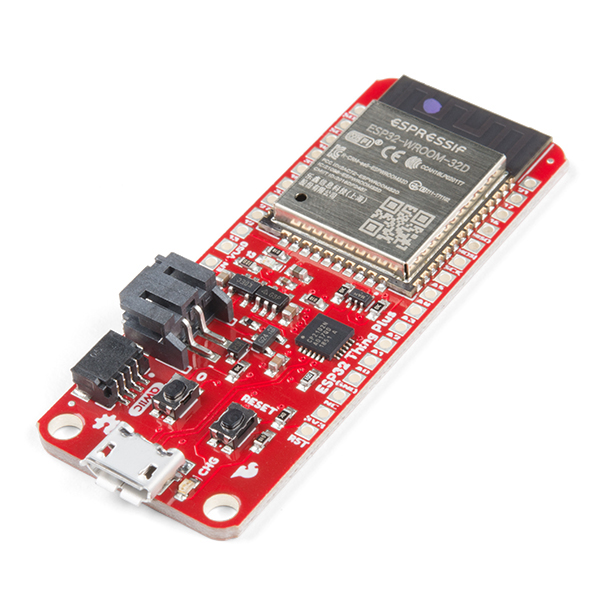
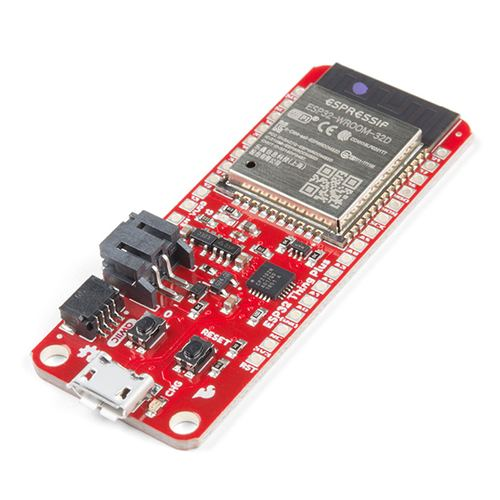
Optimize images and update documentation for improved presentation
- Resized and compressed multiple images across the repository, significantly reducing overall file size from ~2.1 MB to ~460 KB.
- Updated image embedding in `README.md`, `BOM.md`, and `wiring/README.md` to use HTML `<img>` tags for better control over rendering dimensions.
- Enhanced visual consistency by ensuring all component images are displayed as uniform thumbnails.
- Adjusted wiring diagrams to maintain clarity and improve load times.

These changes enhance the user experience by improving the visual presentation and performance of the documentation.

diff --git a/BuildYourOwn/BOM.md b/BuildYourOwn/BOM.md
@@ -7,12 +7,12 @@ Parts list for the **2 pumps + 1 valve** BYO bench rig. Wiring:
 
 | Photo | Part | Qty | Source/link | Datasheet | Notes |
 |---|---|---|---|---|---|
-| ![ESP32 Thing Plus](images/components/esp32-thing-plus.jpg) | SparkFun ESP32 Thing Plus (micro-USB, WRL-15663) | 1 | https://www.sparkfun.com/sparkfun-esp32-thing-plus.html | [`references/datasheets/ESP32_Thing_Plus_Schematic.pdf`](references/datasheets/ESP32_Thing_Plus_Schematic.pdf), [`ESP32_Thing_Plus_Graphical_Datasheet.pdf`](references/datasheets/ESP32_Thing_Plus_Graphical_Datasheet.pdf) | MCU; plain ESP32-WROOM-32D/E (not S2/S3); powers + programs over micro-USB; Qwiic port for sensor chain |
-| ![Qwiic MicroPressure](images/components/qwiic-micropressure.jpg) | SparkFun Qwiic MicroPressure (MPRLS) | 1 | https://www.sparkfun.com/sparkfun-qwiic-micropressure-sensor.html | [`references/datasheets/Honeywell_MPR_Series_Datasheet.pdf`](references/datasheets/Honeywell_MPR_Series_Datasheet.pdf) | Honeywell MPR series; I2C `0x18`; first Qwiic device in the chain |
-| ![Qwiic Button](images/components/qwiic-button.jpg) | SparkFun Qwiic Button, red (BOB-15932) | 1 | https://www.sparkfun.com/sparkfun-qwiic-button.html | [`references/datasheets/Qwiic_Button_Schematic.pdf`](references/datasheets/Qwiic_Button_Schematic.pdf) | I2C, default address `0x6F`; 1-click=REP, hold=momentary pressure; daisy-chained after the MicroPressure sensor on the same Qwiic bus |
-| ![L298N module](images/components/l298n-motor-driver.jpg) | L298N dual H-bridge module | 2 | https://www.amazon.com/s?k=L298N+motor+driver | https://www.st.com/resource/en/datasheet/l298.pdf | #1 = 2 pumps; #2 = valve; ENA/ENB jumpers **OFF** |
-| ![Adafruit 4700 air pump](images/components/adafruit-4700-air-pump.jpg) | Air pump / vacuum motor (Adafruit 4700, ZR320-02PM) | 2 | https://www.adafruit.com/product/4700 | [`references/datasheets/ZR320-02PM_4.5V.pdf`](references/datasheets/ZR320-02PM_4.5V.pdf) | ~4.5 V / ~600 mA each; PUMP1 = vacuum (retract), PUMP2 = pressure (extrude); **flow direction is fixed by port plumbing, not motor polarity** |
-| ![Adafruit 4663 air valve](images/components/adafruit-4663-air-valve.jpg) | 6 V air valve (Adafruit 4663, FA0520E) | 1 | https://www.adafruit.com/product/4663 | [`references/datasheets/4663_C14660_DC_6V.pdf`](references/datasheets/4663_C14660_DC_6V.pdf) | 3-port flip selector (VALVE2); metal pole = vacuum path, plastic pole = pressure path |
+| <img src="images/components/esp32-thing-plus.jpg" width="100" alt="ESP32 Thing Plus"> | SparkFun ESP32 Thing Plus (micro-USB, WRL-15663) | 1 | https://www.sparkfun.com/sparkfun-esp32-thing-plus.html | [`references/datasheets/ESP32_Thing_Plus_Schematic.pdf`](references/datasheets/ESP32_Thing_Plus_Schematic.pdf), [`ESP32_Thing_Plus_Graphical_Datasheet.pdf`](references/datasheets/ESP32_Thing_Plus_Graphical_Datasheet.pdf) | MCU; plain ESP32-WROOM-32D/E (not S2/S3); powers + programs over micro-USB; Qwiic port for sensor chain |
+| <img src="images/components/qwiic-micropressure.jpg" width="100" alt="Qwiic MicroPressure"> | SparkFun Qwiic MicroPressure (MPRLS) | 1 | https://www.sparkfun.com/sparkfun-qwiic-micropressure-sensor.html | [`references/datasheets/Honeywell_MPR_Series_Datasheet.pdf`](references/datasheets/Honeywell_MPR_Series_Datasheet.pdf) | Honeywell MPR series; I2C `0x18`; first Qwiic device in the chain |
+| <img src="images/components/qwiic-button.jpg" width="100" alt="Qwiic Button"> | SparkFun Qwiic Button, red (BOB-15932) | 1 | https://www.sparkfun.com/sparkfun-qwiic-button.html | [`references/datasheets/Qwiic_Button_Schematic.pdf`](references/datasheets/Qwiic_Button_Schematic.pdf) | I2C, default address `0x6F`; 1-click=REP, hold=momentary pressure; daisy-chained after the MicroPressure sensor on the same Qwiic bus |
+| <img src="images/components/l298n-motor-driver.jpg" width="100" alt="L298N module"> | L298N dual H-bridge module | 2 | https://www.amazon.com/s?k=L298N+motor+driver | https://www.st.com/resource/en/datasheet/l298.pdf | #1 = 2 pumps; #2 = valve; ENA/ENB jumpers **OFF** |
+| <img src="images/components/adafruit-4700-air-pump.jpg" width="100" alt="Adafruit 4700 air pump"> | Air pump / vacuum motor (Adafruit 4700, ZR320-02PM) | 2 | https://www.adafruit.com/product/4700 | [`references/datasheets/ZR320-02PM_4.5V.pdf`](references/datasheets/ZR320-02PM_4.5V.pdf) | ~4.5 V / ~600 mA each; PUMP1 = vacuum (retract), PUMP2 = pressure (extrude); **flow direction is fixed by port plumbing, not motor polarity** |
+| <img src="images/components/adafruit-4663-air-valve.jpg" width="100" alt="Adafruit 4663 air valve"> | 6 V air valve (Adafruit 4663, FA0520E) | 1 | https://www.adafruit.com/product/4663 | [`references/datasheets/4663_C14660_DC_6V.pdf`](references/datasheets/4663_C14660_DC_6V.pdf) | 3-port flip selector (VALVE2); metal pole = vacuum path, plastic pole = pressure path |
 | — | Resistor 10 kΩ | 4 | — | — | Pull-down on GPIO 14, 15, 32, 33 to GND |
 | — | DC power adapter 12 V | 1 | — | — | External supply for both L298N motor rails; ≥ 2 A recommended; share GND with ESP32 |
 | — | Silicone tubing 3 mm ID | 1 | https://www.adafruit.com/product/4664 | — | Pneumatic plumbing; see `wiring/pneumatic-plumbing.md` |

diff --git a/BuildYourOwn/PROGRESS.md b/BuildYourOwn/PROGRESS.md
@@ -8,6 +8,46 @@ Newest entries at the top. One entry per session/sitting.
 
 ---
 
+## 2026-07-08 (16)
+
+Resized/compressed every other image in the repo (user asked for "all other pictures as well"
+after the `teaser.jpg` pass) — total image payload dropped from ~2.1 MB to ~460 KB (excluding
+`teaser.jpg`, already handled previously).
+
+- **`wiring/2P1V-wiring-diagram.png`:** 3322×2618 / 644 KB → 1800×1418 / **92 KB**. Resized with
+  `sips`, then re-encoded as an indexed-palette PNG (`PIL.Image.quantize`, FASTOCTREE, 256 colors)
+  instead of plain resize alone — this is what a diagram made mostly of flat colors/text
+  compresses down so dramatically with zero visible quality loss (spot-checked at full size).
+- **`wiring/2P1V-tube-connection.png`:** was actually JPEG-encoded (mismatched extension, same
+  issue as the old `teaser.png`) at 1024×683 / 88 KB. Re-encoded as a true quantized PNG →
+  **42 KB**, removing the JPEG artifacts a line-art diagram shouldn't have. Extension left as
+  `.png` since this is genuinely PNG now (only `teaser` needed a rename, since that one's a
+  photo).
+- **`laser-cut/*.png`** (`panel-cut-lines`, `panel-system-diagram`, `panel-placement-map`): same
+  quantization treatment → 24 KB→4 KB, 98 KB→22 KB, 65 KB→36 KB respectively. These are only
+  linked (not embedded inline) in `laser-cut/README.md`, so this only helps click-through load
+  time, not page rendering.
+- **`images/components/*.jpg`** (6 product photos, real photography — quantization doesn't apply
+  to photos): resized to a 500 px long edge + re-compressed (JPEG quality 78) →
+  ~150–300 KB each down to **10–36 KB each**.
+- **Display-width fixes** (the underlying reason this mattered beyond just download size): the
+  component gallery in `README.md` and the photo column in `BOM.md` were plain Markdown `![]()`
+  images inside table cells — at native resolution (600–970 px per photo, wildly inconsistent
+  with the 248 px L298N photo) that would have rendered as an oversized, uneven-looking table.
+  Switched every one to an HTML `<img width="…">` tag (180 px in the `README.md` gallery, 100 px
+  in `BOM.md`'s narrower table) for small, uniform thumbnails. Did the same for the two wiring
+  diagrams in `README.md`/`wiring/README.md` (`width="800"`/`"600"`, wrapped in `<a href>` so the
+  full-resolution image is still one click away for anyone who needs to actually read the diagram
+  closely).
+- Ran `scripts/check-docs.sh` — all checks pass.
+
+**Next:** no other images remain unoptimized. If any new photos/diagrams get added later (the
+still-outstanding `platform.png`, `wiring.png`, `ide-settings.png`, or step media), apply the same
+treatment: quantized PNG for line-art/diagrams, resized+compressed JPEG for photos, explicit
+`<img width>` for anything embedded inside a table or used as a page hero.
+
+---
+
 ## 2026-07-08 (15)
 
 Resized/compressed `images/teaser.jpg` (formerly `teaser.png`) — user said the picture was

diff --git a/BuildYourOwn/README.md b/BuildYourOwn/README.md
@@ -54,9 +54,9 @@ This BYO track wires breakout boards instead of a custom PCB; optional custom PC
 
 **This design** — electrical wiring and pneumatic plumbing:
 
-![Electrical wiring diagram](wiring/2P1V-wiring-diagram.png)
+<a href="wiring/2P1V-wiring-diagram.png"><img src="wiring/2P1V-wiring-diagram.png" alt="Electrical wiring diagram" width="800"></a>
 
-![Pneumatic tube connection diagram](wiring/2P1V-tube-connection.png)
+<a href="wiring/2P1V-tube-connection.png"><img src="wiring/2P1V-tube-connection.png" alt="Pneumatic tube connection diagram" width="600"></a>
 
 Text summary of the pneumatic logic: [`wiring/pneumatic-plumbing.md`](wiring/pneumatic-plumbing.md).
 
@@ -64,8 +64,8 @@ Text summary of the pneumatic logic: [`wiring/pneumatic-plumbing.md`](wiring/pne
 
 | | | |
 |---|---|---|
-| ![SparkFun ESP32 Thing Plus](images/components/esp32-thing-plus.jpg)<br>SparkFun ESP32 Thing Plus (micro-USB) | ![SparkFun Qwiic MicroPressure](images/components/qwiic-micropressure.jpg)<br>Qwiic MicroPressure (MPRLS) | ![SparkFun Qwiic Button](images/components/qwiic-button.jpg)<br>Qwiic Button |
-| ![L298N motor driver module](images/components/l298n-motor-driver.jpg)<br>L298N dual H-bridge (×2) | ![Adafruit 4700 air pump](images/components/adafruit-4700-air-pump.jpg)<br>Adafruit 4700 air pump (×2) | ![Adafruit 4663 air valve](images/components/adafruit-4663-air-valve.jpg)<br>Adafruit 4663 air valve |
+| <img src="images/components/esp32-thing-plus.jpg" width="180" alt="SparkFun ESP32 Thing Plus"><br>SparkFun ESP32 Thing Plus (micro-USB) | <img src="images/components/qwiic-micropressure.jpg" width="180" alt="SparkFun Qwiic MicroPressure"><br>Qwiic MicroPressure (MPRLS) | <img src="images/components/qwiic-button.jpg" width="180" alt="SparkFun Qwiic Button"><br>Qwiic Button |
+| <img src="images/components/l298n-motor-driver.jpg" width="180" alt="L298N motor driver module"><br>L298N dual H-bridge (×2) | <img src="images/components/adafruit-4700-air-pump.jpg" width="180" alt="Adafruit 4700 air pump"><br>Adafruit 4700 air pump (×2) | <img src="images/components/adafruit-4663-air-valve.jpg" width="180" alt="Adafruit 4663 air valve"><br>Adafruit 4663 air valve |
 
 Photo sources/licenses: [`images/components/README.md`](images/components/README.md).
 

diff --git a/BuildYourOwn/wiring/README.md b/BuildYourOwn/wiring/README.md
@@ -5,7 +5,7 @@
 
 ## Electrical wiring
 
-![Electrical wiring diagram](2P1V-wiring-diagram.png)
+<a href="2P1V-wiring-diagram.png"><img src="2P1V-wiring-diagram.png" alt="Electrical wiring diagram" width="800"></a>
 
 Summary (see diagram for full detail):
 
@@ -25,7 +25,7 @@ GPIO map matches `PneumaticSystem.h` in firmware: `PIN_PUMP1_EN=32`, `PIN_PUMP2_
 
 ## Pneumatic plumbing
 
-![Pneumatic tube connection diagram](2P1V-tube-connection.png)
+<a href="2P1V-tube-connection.png"><img src="2P1V-tube-connection.png" alt="Pneumatic tube connection diagram" width="600"></a>
 
 See also [`pneumatic-plumbing.md`](pneumatic-plumbing.md) for text summary and REP cycle.
 
